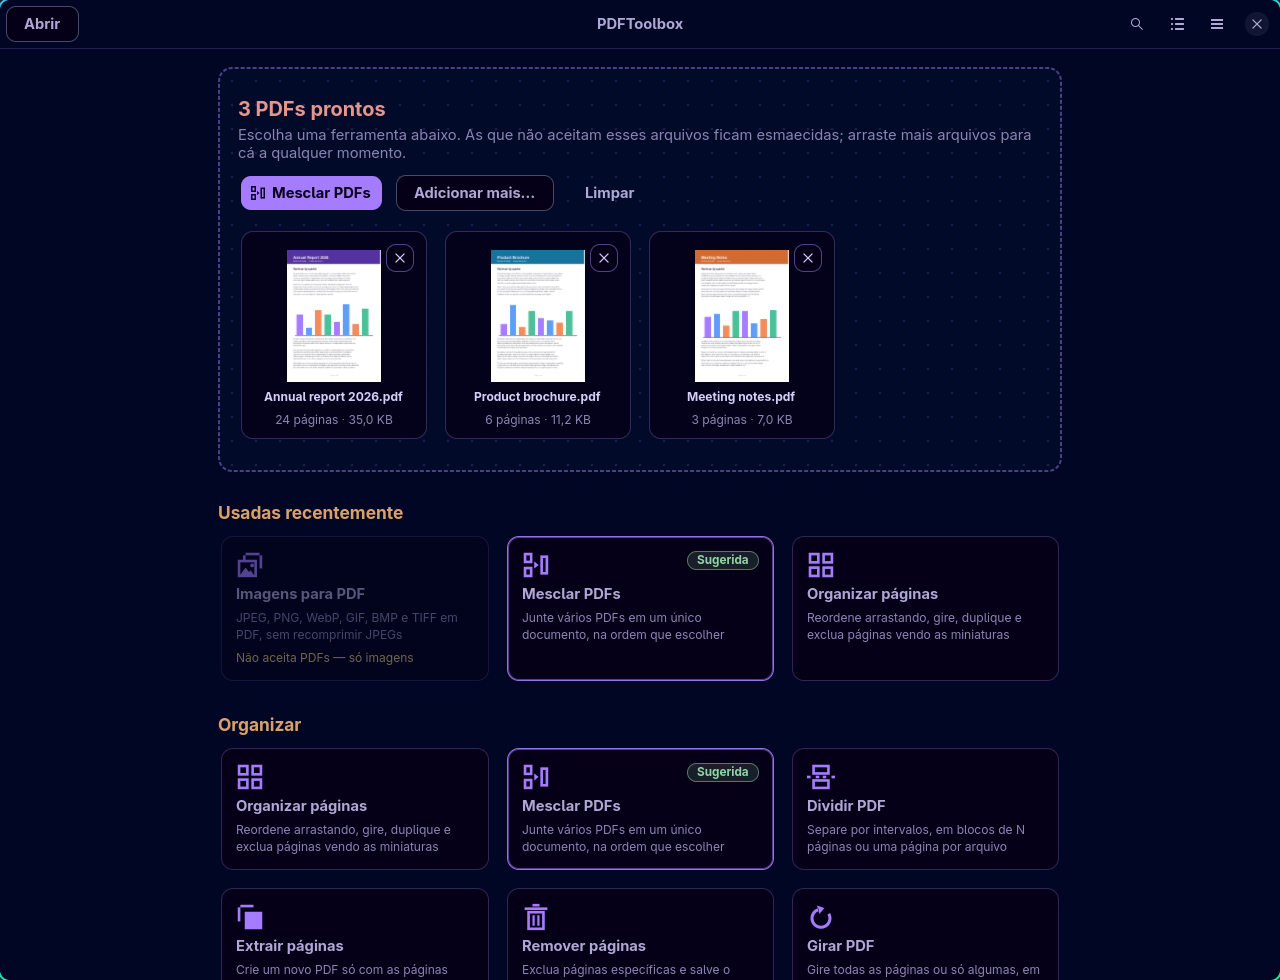
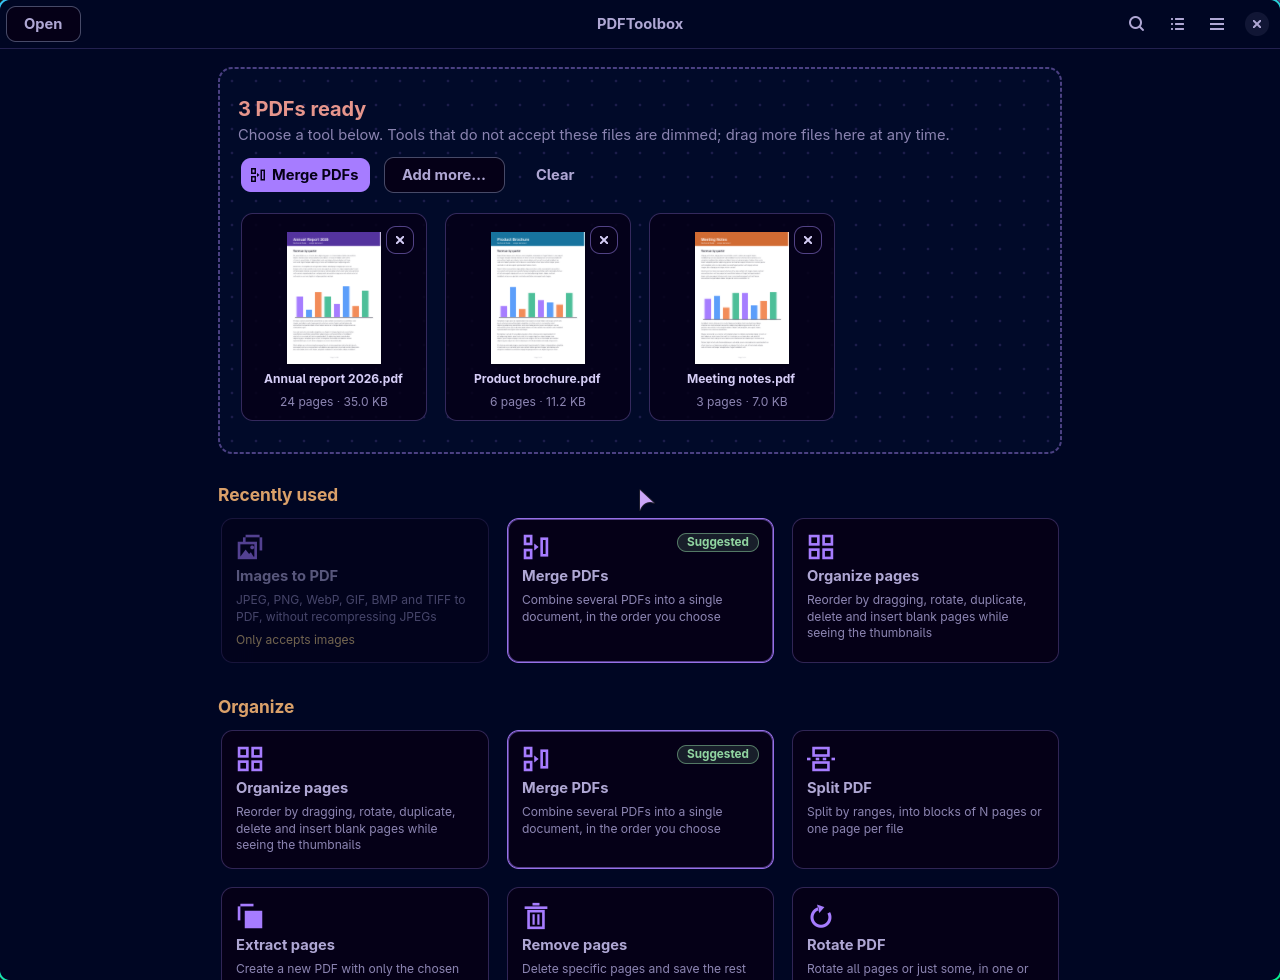
Update README and screenshots for the English interface and Annotate tool

diff --git a/README.md b/README.md
@@ -15,14 +15,16 @@ machine.
 > **Language note:** the user interface is available in **English** and
 > **Brazilian Portuguese**. By default it follows the system language
 > (anything other than English or Portuguese falls back to Portuguese); pick
-> one under **Menu → Language · Idioma**. This README is in English; the other
-> project documents ([ARCHITECTURE](ARCHITECTURE.md), [SECURITY](SECURITY.md),
+> one under **Menu → Language · Idioma** and it changes right away, no restart
+> needed. This README is in English; the other project documents
+> ([ARCHITECTURE](ARCHITECTURE.md), [SECURITY](SECURITY.md),
 > [CHANGELOG](CHANGELOG.md), …) are in Portuguese.
 
 ## Screenshots
 
 The app follows your system's light/dark preference (or you can pick one in
-the menu). The screenshots below use made-up sample documents.
+the menu). The screenshots below show the English interface and use made-up
+sample documents.
 
 ### Home: drop files, see what you picked, get a suggested tool
 
@@ -43,7 +45,7 @@ Type a page range or click the thumbnails. The preview shows the pages
 actually rotated before you save. Extract, Remove and Split have the same
 kind of preview.
 
-### Organize pages: reorder, rotate, duplicate and delete visually
+### Organize pages: reorder, rotate, duplicate, delete and insert blank pages visually
 
 | Dark | Light |
 |---|---|
@@ -58,6 +60,16 @@ kind of preview.
 "How it will look" renders the page with the exact code that will produce the
 file, and updates as you type.
 
+### Annotate and sign: text, date, highlights and your signature
+
+| Dark | Light |
+|---|---|
+| ![Annotate tool with a highlight, a text note and today's date on the first page, dark theme](docs/screenshots/annotate-dark.png) | ![Annotate tool with a highlight, a text note and today's date on the first page, light theme](docs/screenshots/annotate-light.png) |
+
+Add an annotation and drag it into place (or move it with the arrow keys).
+The panel on the right edits the selected one, and every annotation is listed
+below it.
+
 ### Merge PDFs and convert images to PDF
 
 | Dark | Light |
@@ -65,17 +77,19 @@ file, and updates as you type.
 | ![Merge tool with three PDFs, dark theme](docs/screenshots/merge-dark.png) | ![Merge tool with three PDFs, light theme](docs/screenshots/merge-light.png) |
 | ![Images to PDF with page layout preview, dark theme](docs/screenshots/images-to-pdf-dark.png) | ![Images to PDF with page layout preview, light theme](docs/screenshots/images-to-pdf-light.png) |
 
+Drag a file by its handle (⠿) to change the order, or use the arrows.
+
 ## Features
 
 | Tool | What it does |
 |---|---|
 | **Organize pages** | Thumbnails, multi-select, drag to reorder, rotate, duplicate, delete, insert blank pages, enlarge a page, undo, keyboard shortcuts; asks before discarding unsaved changes |
-| **Merge PDFs** | Combine files in any order; the same file can be added more than once |
+| **Merge PDFs** | Combine files in any order (drag the rows or use the arrows); the same file can be added more than once |
 | **Split PDF** | By ranges (`1-3, 4-8, 9-`), every N pages, or one file per page |
 | **Extract pages** | Into one PDF (in the order you type) or one file per page |
 | **Remove pages** | Delete specific pages and keep the rest |
 | **Rotate PDF** | All pages or just some, across several files at once |
-| **Images to PDF** | JPEG, PNG, WebP, GIF, BMP, TIFF; A4 / Letter / image size; margins; JPEGs embedded without recompression; EXIF orientation; transparency |
+| **Images to PDF** | JPEG, PNG, WebP, GIF, BMP, TIFF, reordered by dragging; A4 / Letter / image size; margins; JPEGs embedded without recompression; EXIF orientation; transparency |
 | **PDF to images** | PNG, JPEG (adjustable quality) or TIFF, 36–1200 DPI, in batch |
 | **Compress PDF** | Lossless (qpdf) or with image downsampling (Ghostscript) at 150 ppi, 96 ppi or a custom resolution; estimates the result size before running; shows the savings and skips the output when there is no gain |
 | **Number pages** | 6 positions, formats `1` · `1 / 10` · `Página 1 de 10`, starting number, text size, choose the pages (`2-` skips the cover) |
@@ -138,7 +152,7 @@ plus the command-line tools the app uses under the hood:
 | Tesseract + Portuguese/English data *(optional)* | OCR |
 | A C toolchain + `pkg-config` | Compiling the GTK bindings |
 
-Tools whose optional component is missing show "Requer …" ("Requires …") on their card and
+Tools whose optional component is missing show "Requires …" on their card and
 tell you what to install; everything else keeps working.
 
 **Arch Linux / Manjaro / EndeavourOS** (tested)
@@ -221,14 +235,13 @@ Settings are stored in `~/.config/pdftoolbox/` and temporary files in
 `~/.cache/pdftoolbox/`. Uninstalling keeps them; delete those folders if you
 want a clean slate.
 
-If something is missing, open the menu (☰) → **Dependências**
-("Dependencies"). It lists what is installed, the versions found and the
+If something is missing, open the menu (☰) → **Dependencies**. It lists what is installed, the versions found and the
 command to install anything missing on your distribution. The app never runs
 `sudo` by itself.
 
 ## Usage
 
-1. Drag files onto the window, or click **Abrir** ("Open").
+1. Drag files onto the window, or click **Open**.
 2. Pick a tool. The suggested one is highlighted, and tools that can't handle
    your files are dimmed.
 3. Check the preview, adjust the options and the destination folder, and
@@ -300,8 +313,9 @@ Times include verifying the result and writing it safely.
 ## Known limitations
 
 - **Two interface languages** (English and Portuguese). The language changes
-  the interface only: generated file names (“report - comprimido.pdf”) and
-  the “Página 1 de 10” page-number format stay in Portuguese. Tool pages that
+  the interface only: generated file names (“report - comprimido.pdf”), the
+  “Página 1 de 10” page-number format and the day/month/year order of
+  **Today's date** in Annotate stay the same in both languages. Tool pages that
   are already open when you switch keep the previous language until reopened,
   and GTK’s own texts (text-field context menu, parts of the About dialog)
   follow the new choice after a restart.
